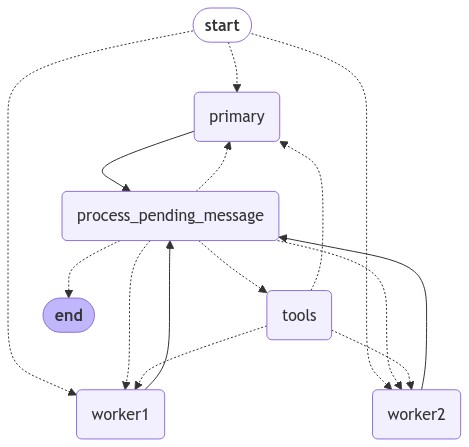
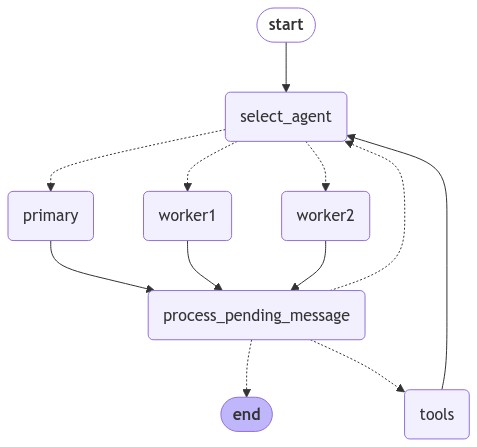
multiagent architecture working with mock chats

diff --git a/chatbot/architecture/multiagent.py b/chatbot/architecture/multiagent.py
@@ -21,12 +21,12 @@ logger = logging.getLogger(__name__)
 POP='<pop>'
 PopType = Literal['<pop>']
 
-def extend_or_pop(left:List[str], right:List[str]|PopType):
+def extend_or_pop(left:List[str], right:List[str]):
     if not right:
         return left
-    if right == POP:
-        return left[-1]
-    return left + right
+    if POP in right:
+        left = left[:-1]
+    return left + [r for r in right if r != POP]
 
 class MultiAgentState(TypedDict):
     messages:Annotated[AnyMessage, add_messages]
@@ -41,32 +41,35 @@ class Agent(BaseModel):
     prompt:SkipValidation[ChatPromptTemplate]=Field(default=None)
     llm:SkipValidation[BaseChatModel]
     tools:List[SkipValidation[BaseTool]]=Field(default_factory=list)
-    enter_tool:SkipValidation[BaseTool]=Field(default=None)
-    exit_tool:SkipValidation[BaseTool]=Field(default=None)
+    enter_tool:SkipValidation[BaseTool]=Field(default='default')
+    exit_tool:SkipValidation[BaseTool]|None=Field(default='default')
 
     @model_validator(mode='after')
     def after_validator(self):
         assert hasattr(self.llm, "bind_tools"), "llm.bind_tools not implemented."
         if self.prompt is None:
             self.prompt = ChatPromptTemplate.from_messages([("placeholder", "{messages}")])
-        if self.enter_tool is None:
+        if self.enter_tool == 'default':
             logger.warning(f".enter_tool not defined for agent '{self.name}', using default. It is strongly recommended to define a custom as_tool for each agent instead.")
             self.enter_tool = StructuredTool.from_function(
-                func=lambda:f"The assistant is now {self.name}. Please reflect on the past conversation and assist the user as needed.",
+                func=lambda:f"The assistant is now specialised agent '{self.name}'. Please reflect on the past conversation and assist the user as needed.",
                 description=f"Transfers work to {self.name}",
                 name=f"to_{self.name}"
                 )
-        if self.exit_tool is None:
+        if self.exit_tool == 'default':
             logger.warning(f".exit_tool not defined for agent '{self.name}', using default. It is strongly recommended to define a custom as_tool for each agent instead.")
-            self.enter_tool = StructuredTool.from_function(
-                func=lambda to_ai:f"Resuming dialog with {to_ai}. Please reflect on the past conversation and assist the user as needed.",
+            self.exit_tool = StructuredTool.from_function(
+                func=lambda :f"Exiting dialog with specialised agent '{self.name}'. Please reflect on the past conversation and assist the user as needed.",
                 description=f"Marks task of {self.name} complete or canceled.",
-                name=f"to_{self.name}"
+                name=f"exit_{self.name}"
                 )
         return self
 
     def to_node(self):
-        llm = (self.prompt | self.llm.bind_tools(self.tools))
+        tools = self.tools
+        if self.exit_tool:
+            tools.append(self.exit_tool)
+        llm = (self.prompt | self.llm.bind_tools(tools))
         def invoke(state, config: RunnableConfig):
             return {
                 "pending_message": llm.invoke(state, config),
@@ -77,22 +80,24 @@ class Agent(BaseModel):
                 }
         return RunnableLambda(invoke, ainvoke, self.name)
 
-def process_pending_message(state:MultiAgentState, config:RunnableConfig, tool_to_other_agent:dict):
+def process_pending_message(state:MultiAgentState, config:RunnableConfig, enter_tools:dict, exit_tools:set):
     updates = {'pending_message':None}
     pending_message = state['pending_message']
-    if not pending_message.tool_calls or not any(tc['name'] in tool_to_other_agent for tc in pending_message.tool_calls):
+    if not pending_message.tool_calls or not any(tc['name'] in enter_tools for tc in pending_message.tool_calls):
         updates['messages'] = [pending_message]
     else:
-        valid_tool_calls = []
-        updates['current_ai'] = []
+        # valid_tool_calls = []
+        updates['current_agent'] = []
         for tc in pending_message.tool_calls:
-            if tc['name'] in tool_to_other_agent:
-                updates['current_ai'].append(tool_to_other_agent[tc['name']])
-            else:
-                valid_tool_calls.append(tc)
-        if valid_tool_calls:
-            pending_message.tool_calls = valid_tool_calls
-            updates['messages'] = [pending_message]
+            if tc['name'] in enter_tools:
+                updates['current_agent'].append(enter_tools[tc['name']])
+            elif tc['name'] in exit_tools:
+                updates['current_agent'].append(POP)
+            # else:
+            #     valid_tool_calls.append(tc)
+        # if valid_tool_calls:
+        #     pending_message.tool_calls = valid_tool_calls
+    updates['messages'] = [pending_message]
 
     return updates
 
@@ -117,38 +122,41 @@ def multi_agent_builder(
     added_tool_names = set()
     all_tools = []
     for agent in agents:
-        for tool in agent.tools + [agent.enter_tool]:
-            if tool.name not in added_tool_names:
+        for tool in agent.tools + [agent.enter_tool, agent.exit_tool]:
+            if tool and tool.name not in added_tool_names:
                 added_tool_names.add(tool.name)
                 all_tools.append(tool)
     tools_node = ToolNode(all_tools)
 
     # nodes
     ppm_node = RunnableLambda(
-        func = partial(process_pending_message, tool_to_other_agent={agent.enter_tool.name:agent.name for agent in agents}), 
+        func = partial(process_pending_message, 
+                       enter_tools={agent.enter_tool.name:agent.name for agent in agents},
+                       exit_tools={agent.exit_tool.name for agent in agents if agent.exit_tool},
+                       ), 
         name = 'process_pending_message')
+    def select_agent(state:MultiAgentState):
+        return {'current_agent':[] if state.get('current_agent') else [all_agent_names[0]]}
+
 
     # routes
-    def route_start(state:MultiAgentState):
-        current_agent = state.get('current_agent')
-        if current_agent:
-            return current_agent[-1]
-        return all_agent_names[0]
     def route_process_pending_message(state:MultiAgentState):
         if not state['messages'] or not isinstance(state['messages'][-1], AIMessage):
-            return route_start(state)
+            return 'select_agent'
         return tools_condition(state)
 
     # build
     builder = builder or StateGraph(state_schema)
-    builder.add_conditional_edges(start, route_start, all_agent_names)
+    builder.add_edge(start, 'select_agent')
+    builder.add_node('select_agent', select_agent)
+    builder.add_conditional_edges('select_agent', lambda s:s['current_agent'][-1], all_agent_names)
     for agent in agents:
         builder.add_node(agent.name, agent.to_node())
         builder.add_edge(agent.name, ppm_node.name)
     builder.add_node(ppm_node.name, ppm_node)
-    builder.add_conditional_edges(ppm_node.name, route_process_pending_message, {END:end, "tools":tools_node.name, **{k:k for k in all_agent_names}})
+    builder.add_conditional_edges(ppm_node.name, route_process_pending_message, {END:end, "tools":tools_node.name, 'select_agent':'select_agent'})
     builder.add_node('tools', tools_node)
-    builder.add_conditional_edges(tools_node.name, route_start, all_agent_names)
+    builder.add_edge(tools_node.name, 'select_agent')
     return builder
 def save_graph():
     import os
@@ -163,3 +171,4 @@ def save_graph():
     graph.get_graph(
     # xray=True,
     ).draw_mermaid_png(output_file_path=f'graphs/{os.path.splitext(os.path.basename(__file__))[0]}.png')
+# save_graph()

diff --git a/chatbot/app_terminal.py b/chatbot/app_terminal.py
@@ -15,12 +15,13 @@ from chatbot.mocks import MockChat, mock_tool
 # from chatbot.agents.all_in_one import graph
 base_agent = Agent(
     name='base',
-    llm=MockChat(model='base'),
+    llm=MockChat(name='base',model='base'),
     tools=[mock_tool('base1'), mock_tool('base2')],
+    # exit_tool=None, # cannot exit base agent
 )
 worker1 = Agent(
     name='worker1',
-    llm=MockChat(model='worker1'),
+    llm=MockChat(name='worker1',model='worker1'),
     tools=[mock_tool('worker11'), mock_tool('worker12')],
 )
 worker1.tools.append(base_agent.enter_tool)
@@ -42,7 +43,7 @@ def print_messages_without_duplicates(messages:List[BaseMessage], id_tracker:Set
 
 config = {"configurable":{"thread_id":str(uuid4()), 'email':'pengshiya'}}
 msgs = [
-    HumanMessage(content="worker1"),
+    HumanMessage(content="hi"),
     # HumanMessage(content="What tasks do I have?"),
     # HumanMessage(content="Great, thanks! I need some inspiration for my designs. Could you help me find some references about cyberpunk?"),
     # HumanMessage(content="I need to install substance painter."),
